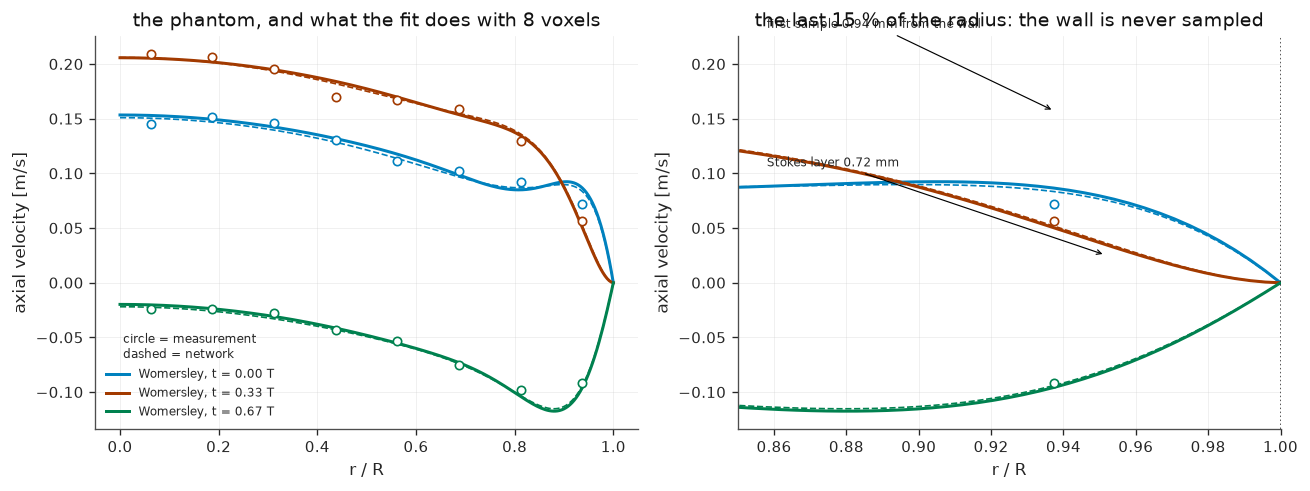
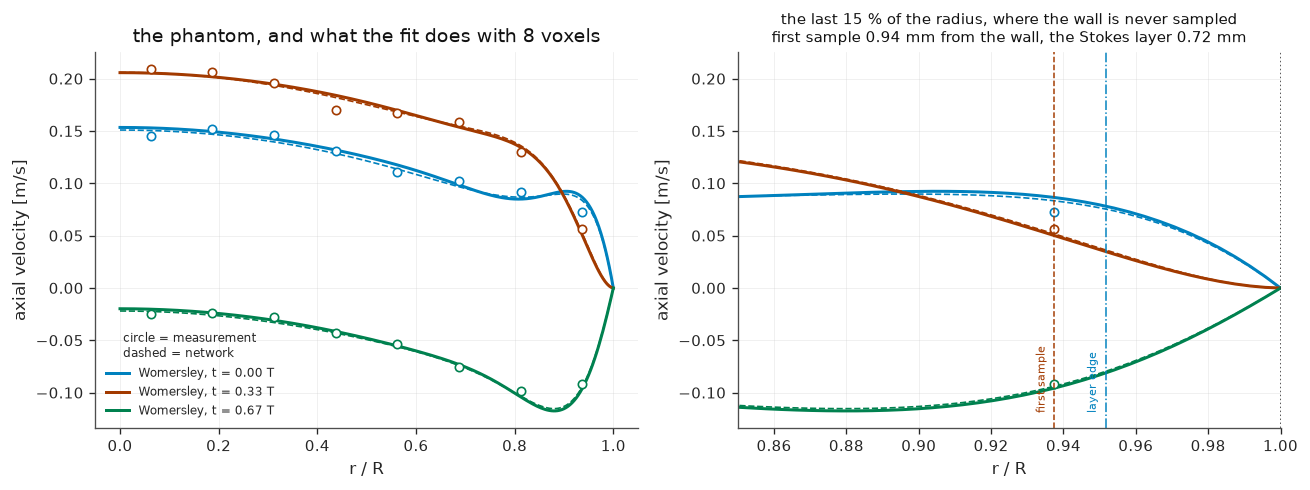
Example: the manifest, and figures that show the error beside the spread
The manifest is read off the record by a generator, so no metric is typed in: twelve metrics, seven checks, one of
which fails on purpose (the ensemble band is 4-9 times narrower than the error). The wall shear stress panel prints
the spread next to the error, which makes that visible without the prose.

diff --git a/examples/hemodynamics_4dflow/run.py b/examples/hemodynamics_4dflow/run.py
@@ -231,17 +231,20 @@ def _figures(out: Path, result: dict, detail: dict | None = None) -> None:
                 ax.plot(ys, vs[:, phase], "o", color=colour, ms=5, mfc="white")
         axes[0].set(xlabel="r / R", ylabel="axial velocity [m/s]",
                     title="the phantom, and what the fit does with 8 voxels")
-        axes[1].set(xlabel="r / R", ylabel="axial velocity [m/s]", xlim=(0.85, 1.0),
-                    title=f"the last 15 % of the radius, where the wall is never sampled\n"
+        axes[1].set(xlabel="r / R", ylabel="axial velocity [m/s]", xlim=(0.85, 1.0))
+        axes[1].set_title(f"the last 15 % of the radius, where the wall is never sampled\n"
                           f"first sample {1e3 * four_d.wall_gap:.2f} mm from the wall, the Stokes layer "
                           f"{1e3 * wave.stokes_layer:.2f} mm", fontsize=9)
         axes[0].legend(fontsize=7, title="circle = measurement\ndashed = network", title_fontsize=7)
         wall = 1.0 - four_d.wall_gap / wave.radius
         layer = 1.0 - wave.stokes_layer / wave.radius
-        axes[1].axvline(1.0, color=dark, lw=0.9, ls=":", label="the wall")
-        axes[1].axvline(wall, color=orange, lw=0.9, ls="--", label="first sample")
-        axes[1].axvline(layer, color=blue, lw=0.9, ls="-.", label="edge of the layer")
-        axes[1].legend(fontsize=6.5, loc="lower left")
+        axes[1].axvline(1.0, color=dark, lw=0.9, ls=":")
+        axes[1].axvline(wall, color=orange, lw=0.9, ls="--")
+        axes[1].axvline(layer, color=blue, lw=0.9, ls="-.")
+        low, high = axes[1].get_ylim()
+        for x, label, colour in ((wall, "first sample", orange), (layer, "layer edge", blue)):
+            axes[1].text(x - 0.002, low + 0.04 * (high - low), label, rotation=90, fontsize=6.5,
+                         ha="right", va="bottom", color=colour)
         fig.tight_layout()
         fig.savefig(out / "figures" / "profiles.png", dpi=120)
         plt.close(fig)
@@ -258,7 +261,8 @@ def _figures(out: Path, result: dict, detail: dict | None = None) -> None:
         ax.plot(cycle, w["wss_two_point"], ":", color=orange, lw=1.3, label="two-point difference")
         ax.set_title(f"{case['name']}, alpha = {case['scales']['alpha']:.1f}", fontsize=9)
         ax.set_ylabel("WSS [Pa]")
-        ax.text(0.03, 0.05, f"network {100 * case['pinn']['wss_relative_error']:.1f} %\n"
+        ax.text(0.03, 0.05, f"network {100 * case['pinn']['wss_relative_error']:.1f} % "
+                            f"(spread {100 * case['uncertainty']['wss_std_over_peak']:.1f} %)\n"
                             f"two-point {100 * case['data_only']['wss_relative_error_two_point']:.0f} %",
                 transform=ax.transAxes, fontsize=7.5, va="bottom",
                 bbox={"boxstyle": "round,pad=0.25", "fc": "white", "ec": "#cccccc", "alpha": 0.9})
